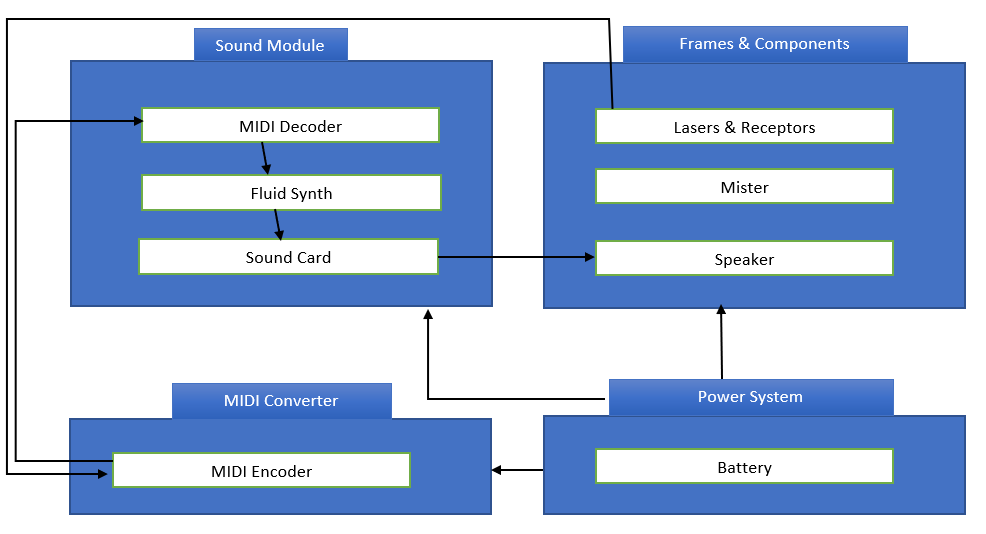
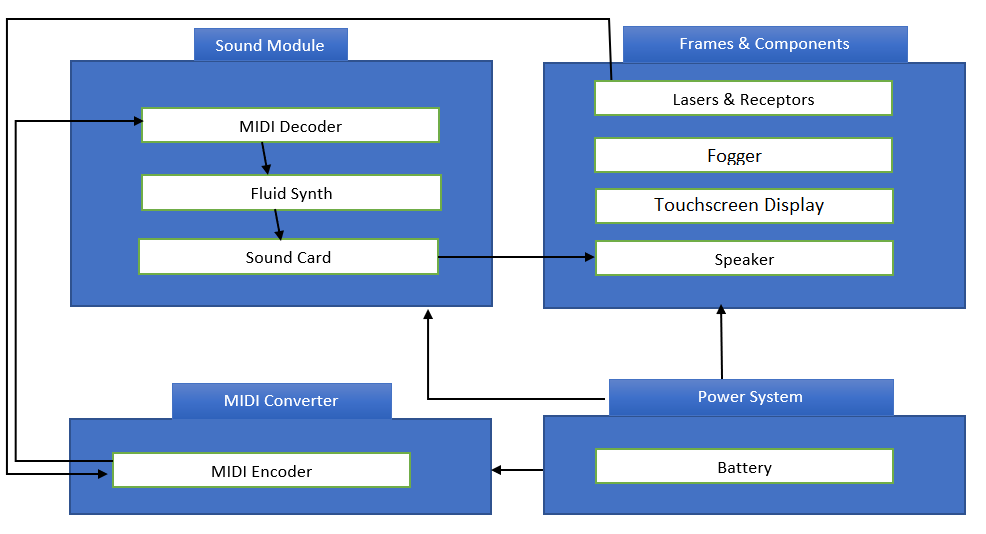
updated ADS final version

Changed region(s): [[0.5781, 0.1498, 0.9128, 0.4195]]

diff --git a/architectural design specification latex/tex/sound_modules_layer_subsystems.tex b/architectural design specification latex/tex/sound_modules_layer_subsystems.tex
@@ -1,71 +1,30 @@
-In this section, the layer is described in some detail in terms of its specific subsystems. Describe each of the layers and its subsystems in a separate chapter/major subsection of this document. The content of each subsystem description should be similar. Include in this section any special considerations and/or trade-offs considered for the approach you have chosen.
+This layer is associated with reading the MIDI signals and converting it into audio signals required for the speaker to give out proper audio output. This consists of three subsystems MIDI decoder, fluidsynth and sound card.
 
 \subsection{MIDI decoder}
-pending
+MIDI decoder is a driver that gets the MIDI signals to the raspberry pi. It is a bridge software that transfers the encoded data for processing by fluidsynth. 
 \begin{figure}[h!]
 	\centering
- 	\includegraphics[width=0.60\textwidth]{images/subsystem}
- \caption{Example subsystem description diagram}
+ 	\includegraphics[width=0.60\textwidth]{images/MIDI_decoder}
+ \caption{MIDI decoder subsystem diagram}
 \end{figure}
 
 \subsubsection{Assumptions}
-pending
+The drivers are compatible with the raspberry pi OS. 
 
 \subsubsection{Responsibilities}
-pending
+The drivers should successfully decode the MIDI data signals to be able to be processed by the fluidsynth software. There should be no loss of data.
 
 \subsubsection{Subsystem Interfaces}
-pending
+The MIDI decoder drivers are software drivers downloaded to the raspberry pi OS. It doesn't have any sub-system inside it
 
-\begin {table}[H]
-\caption {Subsystem interfaces} 
-\begin{center}
-    \begin{tabular}{ | p{1cm} | p{6cm} | p{3cm} | p{3cm} |}
-    \hline
-    ID & Description & Inputs & Outputs \\ \hline
-    \#xx & Description of the interface/bus & \pbox{3cm}{input 1 \\ input 2} & \pbox{3cm}{output 1}  \\ \hline
-    \#xx & Description of the interface/bus & \pbox{3cm}{N/A} & \pbox{3cm}{output 1}  \\ \hline
-    \end{tabular}
-\end{center}
-\end{table}
-
-\subsection{Speaker}
-The speaker gives the final output of the laser harp. After all the processing of the data in the raspberry pi, the pi sends the final output of the sound signal to the speakers. The speakers produce the desired sound as output. 
-
-\begin{figure}[h!]
-	\centering
- 	\includegraphics[width=0.60\textwidth]{images/subsystem}
- \caption{Example subsystem description diagram}
-\end{figure}
-
-\subsubsection{Assumptions}
-The speaker is connected via USB A cable to the pi. It is also powered by the same battery powering the Raspberry Pi.
-
-\subsubsection{Responsibilities}
-The speaker should produce decent sound output with no interference. It should be loud enough so the sound can be heard in a conference hall. 
-
-\subsubsection{Subsystem Interfaces}
-The speaker gets analog signals from the raspberry pi and converts it into sound waves as output. This is the final output of the system. The speaker is connected via USB A cable to the system.
-
-\begin {table}[H]
-\caption {Subsystem interfaces} 
-\begin{center}
-    \begin{tabular}{ | p{1cm} | p{6cm} | p{3cm} | p{3cm} |}
-    \hline
-    ID & Description & Inputs & Outputs \\ \hline
-    \#xx & Description of the interface/bus & \pbox{3cm}{input 1 \\ input 2} & \pbox{3cm}{output 1}  \\ \hline
-    \#xx & Description of the interface/bus & \pbox{3cm}{N/A} & \pbox{3cm}{output 1}  \\ \hline
-    \end{tabular}
-\end{center}
-\end{table}
 
 \subsection{FluidSynth}
 FluidSynth is a real-time software synthesizer based on the SoundFont 2 specifications and has reached widespread distribution. It converts the MIDI signals to produce desired sound waves.
 
 \begin{figure}[h!]
 	\centering
- 	\includegraphics[width=0.60\textwidth]{images/subsystem}
- \caption{Example subsystem description diagram}
+ 	\includegraphics[width=0.60\textwidth]{images/fluidsynthpng}
+ \caption{FluidSynth subsystem diagram}
 \end{figure}
 
 \subsubsection{Assumptions}
@@ -75,16 +34,27 @@ The software already has default preset sounds built-in. It also has the functio
 The software is used to convert MIDI signals to sound waves. It should have multiple different sound effects and create a wide range of sound octaves in different formats.
 
 \subsubsection{Subsystem Interfaces}
-The software is downloaded and installed into the raspberry pi. It is supported by the Raspian OS.
+The software is downloaded and installed into the raspberry pi. It is supported by the raspberry pi OS.
 
-\begin {table}[H]
-\caption {Subsystem interfaces} 
-\begin{center}
-    \begin{tabular}{ | p{1cm} | p{6cm} | p{3cm} | p{3cm} |}
-    \hline
-    ID & Description & Inputs & Outputs \\ \hline
-    \#xx & Description of the interface/bus & \pbox{3cm}{input 1 \\ input 2} & \pbox{3cm}{output 1}  \\ \hline
-    \#xx & Description of the interface/bus & \pbox{3cm}{N/A} & \pbox{3cm}{output 1}  \\ \hline
-    \end{tabular}
-\end{center}
-\end{table}
+
+\subsection{Sound Card}
+The sound card is integrated into the raspberry pi as drivers. It converts the data outputted by FluidSynth to sound data which is released through the speaker as the final output.
+
+\begin{figure}[h!]
+	\centering
+ 	\includegraphics[width=0.60\textwidth]{images/soundcard}
+ \caption{Sound Card subsystem diagram}
+\end{figure}
+
+\subsubsection{Assumptions}
+The sound card drivers are already built-in and integrated to the raspberry pi.
+
+\subsubsection{Responsibilities}
+The sound card should handle decent amount of data set. It should be able to produce a wide variety of sound data with different wavelengths.
+
+\subsubsection{Subsystem Interfaces}
+The sound card drivers are built-in software built-in to the raspberry pi OS. It doesn't have any sub-system inside it.
+
+
+
+

diff --git a/architectural design specification latex/tex/system_overview.tex b/architectural design specification latex/tex/system_overview.tex
@@ -7,14 +7,15 @@ Laser Harp consists of four layers. The first layer is the power system, which i
 \end{figure}
 
 \subsection{Power System}
-The power system consists of a single component, Battery. It is going to act as a power source for the whole device. The power source would most likely be single or combination of 12V DC 2A batteries.
+The whole product is built around its CPU, raspberry pi. It is going to act as a power source for the whole device. The raspberry pi is going to have a cable that can be plugged in to any external outlet.
 
 
 \subsection{Frames and Components}
-Users of the laser harp are going to interact with device using this layer. This layer is going to provide the users with visual and audio output in addition to ways to play the instrument. It consists of laser and receptors, mister and speakers. Lasers acts as both output as well as input medium in the device. Receptors are going to identify the break in the laser beams and transmit the resulting signal towards MIDI converter to be encoded. Lasers are not visible in broad daylight, so  in order to overcome that mister is being used for visibility and is lodged at the base of the harp. Speakers are the way audience are going to hear the resulting audio. It will receive input from sound card form the sound module layer. It will be high quality speaker, able to play multiple range of audio clearly.
-
-\subsection{Sound Module}
-This layer is associated with reading the MIDI signals and converting it into audio signals required for the speaker to give out proper audio output. This consists of three subsystems MIDI decoder, fluid synth and sound card. MIDI decoder changes the signals from the MIDI encoder and passes it on to fluid synth. Fluid synth which is enclosed in the raspberry pie is a software that allows the user to control speed, frequency and other characteristics of sound to be produced. Sound card comprises of drivers that enable the raspberry pie to generate audio output.
+Users of the laser harp are going to interact with device using this layer. This layer is going to provide the users with visual and audio output in addition to ways to play the instrument. It consists of laser and receptors, fogger, a touchscreen and speakers. Lasers acts as  the input medium in the device. Receptors are going to identify the break in the laser beams and transmit the resulting signal towards MIDI converter to be encoded. Lasers are not visible in broad daylight, so  in order to overcome that mister is being used for visibility and is lodged at the base of the harp. Speakers are the way audience are going to hear the resulting audio. It will receive input from sound card form the sound module layer. It will be high quality speaker, able to play multiple range of audio clearly. There will also be a 6-inch touchscreen display to toggle between presets and adjust sound effects such as gain and reverb.
 
 \subsection{MIDI converter}
-This layer is connected to the receptors of the frame and components layer. The interference signal caught by those receptors is changed into MIDI signal by MIDI encoder subsystem lodged in the layer. It is will housed inside a teensy micro controller or the raspberry pie.
+This layer is connected to the receptors of the frame and components layer. The interference signal caught by those receptors is changed into MIDI signal by MIDI encoder subsystem lodged in the layer. It is will housed inside a teensy micro controller or the raspberry pi.
+
+\subsection{Sound Module}
+This layer is associated with reading the MIDI signals and converting it into audio signals required for the speaker to give out proper audio output. This consists of three subsystems MIDI decoder, fluid synth and sound card. MIDI decoder changes the signals from the MIDI encoder and passes it on to fluid synth. Fluid synth which is enclosed in the raspberry pi is a software that allows the user to control speed, frequency and other characteristics of sound to be produced. Sound card comprises of drivers that enable the raspberry pi to generate audio output.
+

diff --git a/architectural design specification latex/tex/frame_comp_layer_subsystems.tex b/architectural design specification latex/tex/frame_comp_layer_subsystems.tex
@@ -26,32 +26,32 @@ A USB to MIDI cable is used to connect the subsystem to encoder.
     \begin{tabular}{ | p{1cm} | p{6cm} | p{3cm} | p{3cm} |}
     \hline
     ID & Description & Inputs & Outputs \\ \hline
-    \#01 & Power supply & \pbox{3cm}{Electricity} & \pbox{3cm}{Power}  \\ \hline
-    \#02 & MIDI Interface & \pbox{3cm}{Power Supply} & \pbox{3cm}{Laser beams}  \\ \hline
-    \#03 & Receptors & \pbox{3cm}{Interference} & \pbox{3cm}{Event Messages/Signals}  \\ \hline
+    \#01 & Laser Diodes & \pbox{3cm}{Power supply} & \pbox{3cm}{Laser beams }  \\ \hline
+    \#02 & Receptors & \pbox{3cm}{Interference} & \pbox{3cm}{Signals}  \\ \hline
+    \#03 & MIDI Interface & \pbox{3cm}{Signals} & \pbox{3cm}{Event Messages }  \\ \hline
     \end{tabular}
 \end{center}
 \end{table}
 
-\subsection{Mister}
-It consists of an AGPtek aluminum mini mist maker which will be submerged into a water container in order to produce fog or mist which enhances the visibility of the lasers. Mister will take power source from an external outlet.
+\subsection{Fogger}
+It consists of a mini vape model that will be produce fog or vape which enhances the visibility of the lasers. It will take power source from Raspberry Pi. It will use the power to convert vape juice inside of it to fog.
 
 \begin{figure}[h!]
 	\centering
- 	\includegraphics[width=0.60\textwidth]{images/Mister}
+ 	\includegraphics[width=0.60\textwidth]{images/fogger}
  \caption{Laser and Receptors subsystem description diagram}
 \end{figure}
 
 \subsubsection{Assumptions}
-It is assumed that there is adequate water supply to submerge the mister. 
+It is assumed that there is enough vape juice inside the fogger and adequate power supply.
 
 \subsubsection{Responsibilities}
 It is responsible for emitting fog or mist which will be used to make the lasers visible to naked eye in well-lit room.
 
 \subsubsection{Subsystem Interfaces}
-Power is given to the mister through an external outlet.
+Power is given to the mister through Raspberry Pi.
 
-Mister takes input from the water container which in turn converted into mist. 
+Fogger takes input from the vape juice which is converted into mist. 
 
 
 \begin {table}[H]
@@ -60,7 +60,7 @@ Mister takes input from the water container which in turn converted into mist.
     \begin{tabular}{ | p{1cm} | p{6cm} | p{3cm} | p{3cm} |}
     \hline
     ID & Description & Inputs & Outputs \\ \hline
-    \#01 & Mist Maker & \pbox{3cm}{Water} & \pbox{3cm}{Mist}  \\ \hline 
+    \#01 & Fogger & \pbox{3cm}{Vape juice} & \pbox{3cm}{Mist}  \\ \hline 
    \end{tabular}
 \end{center}
 \end{table}
@@ -95,4 +95,36 @@ It receives the signals from the sound module and produces the resulting audio o
 \end{center}
 \end{table}
 
+\subsection{Touchscreen Display}
+It consists of a 6" inch touchscreen monitor that is used for toggling between presets and changing the settings. It is also useful for viewing the current settings and preset. The UI is based on Kiwi UI for the display.
+
+\begin{figure}[h!]
+	\centering
+ 	\includegraphics[width=0.60\textwidth]{images/screen}
+ \caption{Laser and Receptors subsystem description diagram}
+\end{figure}
+
+\subsubsection{Assumptions}
+It is powered by the Raspberry Pi and it can take inputs from the screen display. 
+
+\subsubsection{Responsibilities}
+It is responsible for toggling between presets and changing the settings.
+
+\subsubsection{Subsystem Interfaces}
+It is connected directly to the Raspberry Pi via a USB-C cable.
+
+It displays the information on the screen and also takes input from user through the same screen 
+
+
+\begin {table}[H]
+\caption {Subsystem interfaces} 
+\begin{center}
+    \begin{tabular}{ | p{1cm} | p{6cm} | p{3cm} | p{3cm} |}
+    \hline
+    ID & Description & Inputs & Outputs \\ \hline
+    \#01 & Touchscreen Display & \pbox{3cm}{Raspberry Pi} & \pbox{3cm}{display info}  \\ \hline 
+    \#01 & Touchscreen Display & \pbox{3cm}{user input} & \pbox{3cm}{update info}  \\ \hline 
+   \end{tabular}
+\end{center}
+\end{table}
 

diff --git a/architectural design specification latex/tex/midi_layer_subsystems.tex b/architectural design specification latex/tex/midi_layer_subsystems.tex
@@ -1,22 +1,22 @@
-In this section, the layer is described in some detail in terms of its specific subsystems. Describe each of the layers and its subsystems in a separate chapter/major subsection of this document. The content of each subsystem description should be similar. Include in this section any special considerations and/or trade-offs considered for the approach you have chosen.
+The MIDI converter layers consists of single component i.e. MIDI encoder. The encoder takes the signals passed on by the receptors and changes it into MIDI signals. Those MIDI signals are forwarded towards MIDI decoder of sound module.
 
 \subsection{MIDI encoder}
 The MIDI encoder gets the signal from the laser receptors, converts it to MIDI data and sends to the Raspberry Pi for the output. This converts the laser receptor signals to MIDI data in order to convert it to sound data.  
 
 \begin{figure}[h!]
 	\centering
- 	\includegraphics[width=0.60\textwidth]{images/subsystem}
- \caption{MIDI encoder subsystem description diagram}
+ 	\includegraphics[width=0.60\textwidth]{images/MIDI_encoder}
+ \caption{MIDI encoder subsystem diagram}
 \end{figure}
 
 \subsubsection{Assumptions}
-The MIDI encoder is connected to the Pi and the laser receptors via usb-A cable. It also has a built-in software that converts the data automatically.
+The MIDI encoder is connected to the Pi and the laser receptors via cable. It also has a built-in software that converts the data automatically.
 
 \subsubsection{Responsibilities}
-The laser recptors, when it detects an interference, sends signal to the MIDI encoder. Here, the encoder converts the signal data it received to a MIDI data so it can be maniplated to different sounds with the sound modules.
+The laser receptors, when it detects an interference, sends signal to the MIDI encoder. Here, the encoder converts the signal data it received to a MIDI data so it can be manipulated to different sounds with the sound modules.
 
 \subsubsection{Subsystem Interfaces}
-Each of the inputs and outputs for the subsystem are defined here. Create a table with an entry for each labelled interface that connects to this subsystem. For each entry, describe any incoming and outgoing data elements will pass through this interface.
+It receives the laser signals and converts it into MIDI signals which it sends to the pi.
 
 \begin {table}[H]
 \caption {Subsystem interfaces} 
@@ -24,8 +24,7 @@ Each of the inputs and outputs for the subsystem are defined here. Create a tabl
     \begin{tabular}{ | p{1cm} | p{6cm} | p{3cm} | p{3cm} |}
     \hline
     ID & Description & Inputs & Outputs \\ \hline
-    \#xx & Description of the interface/bus & \pbox{3cm}{input 1 \\ input 2} & \pbox{3cm}{output 1}  \\ \hline
-    \#xx & Description of the interface/bus & \pbox{3cm}{N/A} & \pbox{3cm}{output 1}  \\ \hline
+    \#01 & MIDI Encoder & \pbox{3cm}{ Laser Signals} & \pbox{3cm}{MIDI signals}  \\ \hline
     \end{tabular}
 \end{center}
 \end{table}

diff --git a/architectural design specification latex/tex/data_flow.tex b/architectural design specification latex/tex/data_flow.tex
@@ -1,12 +1,13 @@
-There are 8 components in our laser harp instrument. These components are referred as subsystems which combine to give definition to the layers discussed above.
+There are 9 components in our laser harp instrument. These components are referred as subsystems which combine to give definition to the layers discussed above.
 
 The Power System layer consists of single subsystem, Battery. It is main power source for all the components of the instrument. It will be comprised of single or combination of multiple 12V DC batteries. This subsystem will be place in the base of the instrument, will be wired to each component.
 
-The Frames & Component system is comprised of three subsystems Lasers & Receptors, Mister and Speaker. Lasers & Receptors will be combination of multiple laser diodes positioned directly above the photoresistors, which will create laser beams. The interference of laser beams will be detected by the receptors and the resulting signals is sent to MIDI encoder. Mister acts as an individual unit and does not communicate with any other components whereas speakers get its input from the soundcard of the sound module layer.
-
-The sound module layer contains three components. MIDI Decoders gets MIDI signals from the MIDI encoder. It interprets those signals, and which is fed into fluidsynth software. It allows the users to manipulate the frequency, depth, dampness, speed, etc. of the incoming signals. The resulting sound is in turn passed onto speakers for audio output via soundcard. 
+The Frames & Component system is comprised of four subsystems Lasers & Receptors, Mister, Touchscreen Display and Speaker. Lasers & Receptors will be combination of multiple laser diodes positioned directly above the photo resistors, which will create laser beams. The interference of laser beams will be detected by the receptors and the resulting signals is sent to MIDI encoder. Mister acts as an individual unit and does not communicate with any other components whereas speakers get its input from the sound card of the sound module layer. There will also be a 6-inch touchscreen display at the front center of the frame. It is used for presets control and adjust sound effects such as gain and reverb.
 
 The MIDI converter layers consists of single component i.e. MIDI encoder. The encoder is likely to be housed in a teensy microcontroller which takes the signals passed on by the receptors and changes it into MIDI signals. Those MIDI signals are forwarded towards MIDI decoder of sound module.
+
+The sound module layer contains three components. MIDI Decoders gets MIDI signals from the MIDI encoder. It interprets those signals, and which is fed into fluidsynth software. It allows the users to manipulate the frequency, depth, dampness, speed, etc. of the incoming signals. The resulting sound is in turn passed onto speakers for audio output via sound card. 
+
 
 \begin{figure}[h!]
 	\centering

diff --git a/architectural design specification latex/architectural_design_specification.tex b/architectural design specification latex/architectural_design_specification.tex
@@ -29,12 +29,12 @@
 \definecolor{accentcolor}{rgb}{0.0,0.0,0.5} 
 \newcommand{\teamname}{Resonance}
 \newcommand{\productname}{LTunes}
-\newcommand{\coursename}{CSE 4316: Senior Design I}
-\newcommand{\semester}{Fall 2019}
+\newcommand{\coursename}{CSE 4317: Senior Design II}
+\newcommand{\semester}{Spring 2020}
 \newcommand{\docname}{Architectural Design Specification}
 \newcommand{\department}{Department of Computer Science \& Engineering}
 \newcommand{\university}{The University of Texas at Arlington}
-\newcommand{\authors}{Amir Dhungana \\ Anish Yonjan \\ Roberto Torres \\ Raul Jimenez \\ Nikhil Purohit}
+\newcommand{\authors}{Amir Dhungana \\ Anish Yonjan \\ Roberto Torres \\ Raul Jimenez \\ Rabinson Shrestha \\ Nikhil Purohit}
 
 %%% Headers and footers
 \usepackage{fancyhdr}
@@ -52,7 +52,7 @@
 	\renewcommand{\footrulewidth}{0.4pt}
 
 %%% Change the abstract environment
-\usepackage[runin]{abstract}			% runin option for a run-in title
+\usepackage[runin]{abstract}			% run in option for a run-in title
 %\setlength\absleftindent{30pt}			% left margin
 %\setlength\absrightindent{30pt}		% right margin
 \abslabeldelim{\quad}	
@@ -70,7 +70,7 @@
 \vspace{0.5 in}
 \begin{figure}[h!]
 	\centering
-   	\includegraphics[width=0.60\textwidth]{images/test_image}
+   	\includegraphics[width=0.60\textwidth]{images/logo}
 \end{figure}
 \vspace{0.5 in}
 {\centering \huge \color{accentcolor} \sc \textbf{\teamname \\ \productname} \par}
@@ -88,6 +88,7 @@
   	\vhEntry{0.1}{11.02.2019}{AD}{document creation}
   	\vhEntry{0.2}{11.06.2019}{AY|AD}{complete draft}
   	\vhEntry{1.0}{11.08.2019}{AY|AD}{official release}
+  	\vhEntry{1.1}{05.10.2020}{AY}{added design review requests}
 \end{versionhistory}
 \newpage
 
@@ -112,21 +113,16 @@
 \input{tex/data_flow.tex}
 \newpage
 \section{Power System Layer Subsystems}
-\input{tex/x_layer_subsystems.tex}
+\input{tex/power_system_layer_subsystems.tex}
 \newpage
 \section{Frame and Component Layer Subsystems}
-\input{tex/y_layer_subsystems.tex}
-\newpage
-\section{Sound Modules Layer Subsystems}
-\input{tex/sound_modules_layer_subsystems.tex}
+\input{tex/frame_comp_layer_subsystems.tex}
 \newpage
 \section{MIDI Layer Subsystems}
 \input{tex/midi_layer_subsystems.tex}
 \newpage
-
-%%% References
-\bibliographystyle{plain}
-\bibliographystyle{reference/IEEEtran_custom}
-\bibliography{reference/refs}{}
+\section{Sound Modules Layer Subsystems}
+\input{tex/sound_modules_layer_subsystems.tex}
+\newpage
 
 \end{document}

diff --git a/architectural design specification latex/tex/introduction.tex b/architectural design specification latex/tex/introduction.tex
@@ -1,5 +1,5 @@
-This section describes the purpose, use and intended user audience for the L-Tunes laser harp. L-Tunes is a laser-based digital instrument and MIDI device that uses lasers to trigger a note when the laser is blocked or obstructed. The device can be used to play sounds like an harp, with presets and parameters to emulate other instruments and sounds.   Users of L-Tunes will be able to play the device like an instrument and even create new sounds via built in sound generators. This product is intended for anyone, but particularly musicians, harp-enthusiasts, and children.
+ This section describes the purpose, use and intended user audience for the 'L-Tunes' laser harp instrument. L-Tunes is a laser-based digital instrument that uses laser signals and converts them to MIDI signals that trigger a musical note when the laser is blocked or obstructed. The device can be used to play sounds from different instruments like harp,  guitar, piano, etc. with presets and parameters to emulate other instruments and sounds. Users of L-Tunes will be able to play the device like an instrument and even create new sounds via built in sound generators. This product is intended for anyone, but particularly musicians, harp-enthusiasts, and children.
 
-The L-Tunes laser harp should be used to play sounds like a harp, along with being versatile MIDI device than can be used to trigger sounds in a DAW (Digital Audio Workstation).
+The L-Tunes laser harp should be used to play sounds like a harp, piano, etc. along with being versatile MIDI device than can be used to trigger sounds in a DAW (Digital Audio Workstation).
 
 This device can be used by anyone,  however the device is intended to be used by musicians,  harp-enthusiasts, and young children. This device is designed for anyone looking for an alternative to a real harp with strings. 

diff --git a/architectural design specification latex/tex/power_system_layer_subsystems.tex b/architectural design specification latex/tex/power_system_layer_subsystems.tex
@@ -1,0 +1,24 @@
+The details about the subsystem included in the power layer are discussed below. We are opting to go with centralizing the raspberry pi as the main power source. It will sort of act as a power source to all the other components and it itself is powered by plugging to an external outlet.  
+
+\subsection{Raspberry Pi}
+Raspberry Pi is the only subsystem component included in this layer. It will act as the power source for all the components. It will be connected to other components via wires and cables.
+
+\subsubsection{Assumptions}
+The Raspberry Pi will be able to provide enough power to run all the components of the instrument for a reasonable amount time without difficulties. It will have access to external outlet to power itself.
+
+\subsubsection{Responsibilities}
+It is responsible for providing adequate power to all the components of the device.
+
+\subsubsection{Subsystem Interfaces}
+Input and output for the Raspberry Pi subsystem are mentioned below.
+
+\begin {table}[H]
+\caption {Subsystem interfaces} 
+\begin{center}
+    \begin{tabular}{ | p{1cm} | p{6cm} | p{3cm} | p{3cm} |}
+    \hline
+    ID & Description & Inputs & Outputs \\ \hline
+    \#xx & Raspberry Pi  & \pbox{3cm}{120V outlet} & \pbox{3cm}{2A DC Power}  \\ \hline
+    \end{tabular}
+\end{center}
+\end{table}
